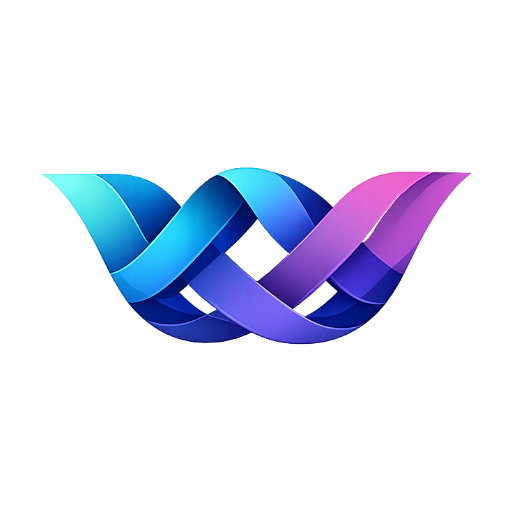
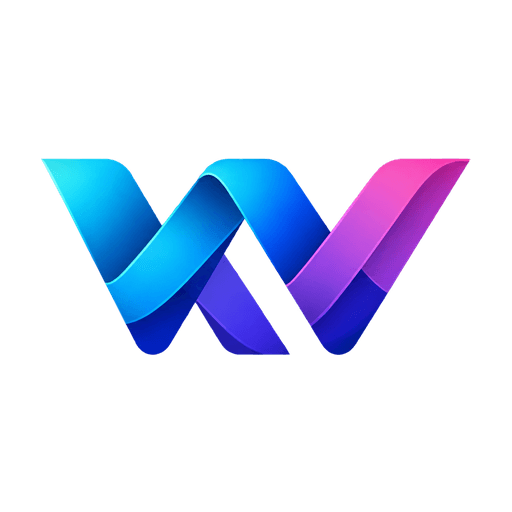
feat(brand): refresh the Weave mark
Replaces the braided-ribbon logo with the new W mark from weave-assets
(`weave_logo_colorized.png`), trimmed to its content bounds and never
upscaled.

The client's four logo slots all render the mark in a small square with
`object-fit: contain`, so the new mark's wider aspect ratio (2.19:1,
against the old lockup's 1.52:1) drops in without any sizing change. The
old asset was a stacked lockup whose "Weave" wordmark was illegible at
64-72px anyway; the mark alone now carries it, and the word is already
set in type beside it on every screen.

Login, Welcome and the harness-setup wizard previously filled that square
with `var(--accent)`. The new mark is a blue-to-pink gradient, and its
blue arm sank into the indigo fill; those three now use `--card-bg` with
a hairline border, so the gradient reads at full strength. The icon rail
has no colored backing and is unchanged apart from the asset.

The desktop icons keep their existing framing exactly: the mark centred
on a transparent square at 84% of the canvas width, at 1024 and 512.

Changed region(s): [[0.0625, 0.2812, 0.9375, 0.7188]]

diff --git a/client/src/components/auth/LoginPage.vue b/client/src/components/auth/LoginPage.vue
@@ -165,7 +165,7 @@ function isSafeReturnUrl(value: string): boolean {
   <main class="flex min-h-screen items-center justify-center bg-main-bg px-4 py-12">
     <section class="w-full max-w-sm text-center">
       <div class="flex flex-col items-center gap-6 rounded-card border border-border bg-card-bg px-8 py-10 shadow-sm">
-        <div class="flex h-18 w-18 items-center justify-center rounded-card bg-accent p-3 shadow-sm">
+        <div class="flex h-18 w-18 items-center justify-center rounded-card border border-border bg-card-bg p-3 shadow-sm">
           <img
             :src="weaveLogo"
             alt="Weave logo"

diff --git a/client/src/components/pages/WelcomePage.vue b/client/src/components/pages/WelcomePage.vue
@@ -8,7 +8,7 @@ const commitSha = import.meta.env.VITE_COMMIT_SHA;
 <template>
   <section class="flex h-full items-center justify-center p-6">
     <div class="flex max-w-md flex-col items-center gap-4 text-center">
-      <div class="flex h-18 w-18 items-center justify-center rounded-card bg-accent p-3 shadow-sm">
+      <div class="flex h-18 w-18 items-center justify-center rounded-card border border-border bg-card-bg p-3 shadow-sm">
         <img
           :src="weaveLogo"
           alt="Weave logo"

diff --git a/client/src/components/harness-setup/HarnessSetupWizard.vue b/client/src/components/harness-setup/HarnessSetupWizard.vue
@@ -248,7 +248,8 @@ function onOpenChange(open: boolean): void {
   height: 64px;
   border-radius: var(--radius-card);
   padding: 10px;
-  background: var(--accent);
+  border: 1px solid var(--border);
+  background: var(--card-bg);
 }
 
 .harness-setup__logo img {
